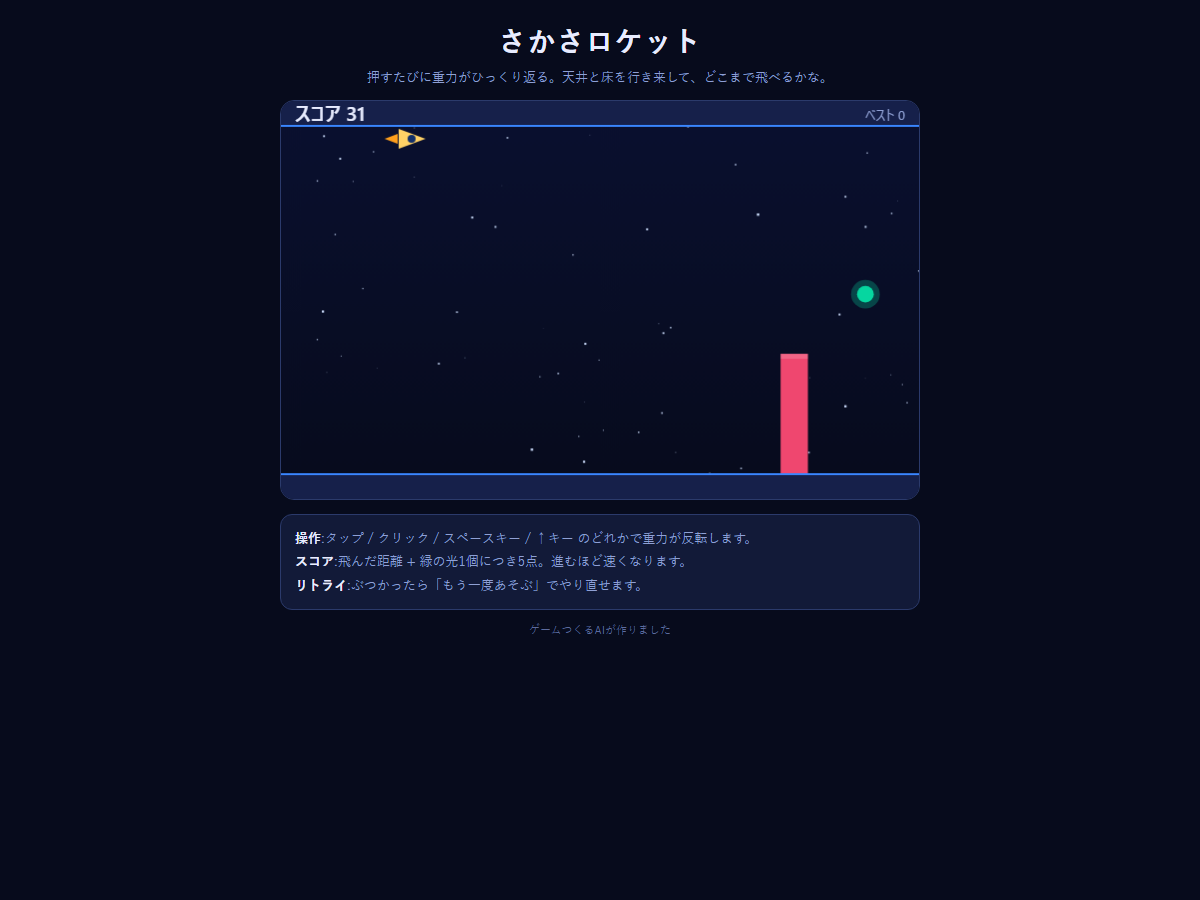
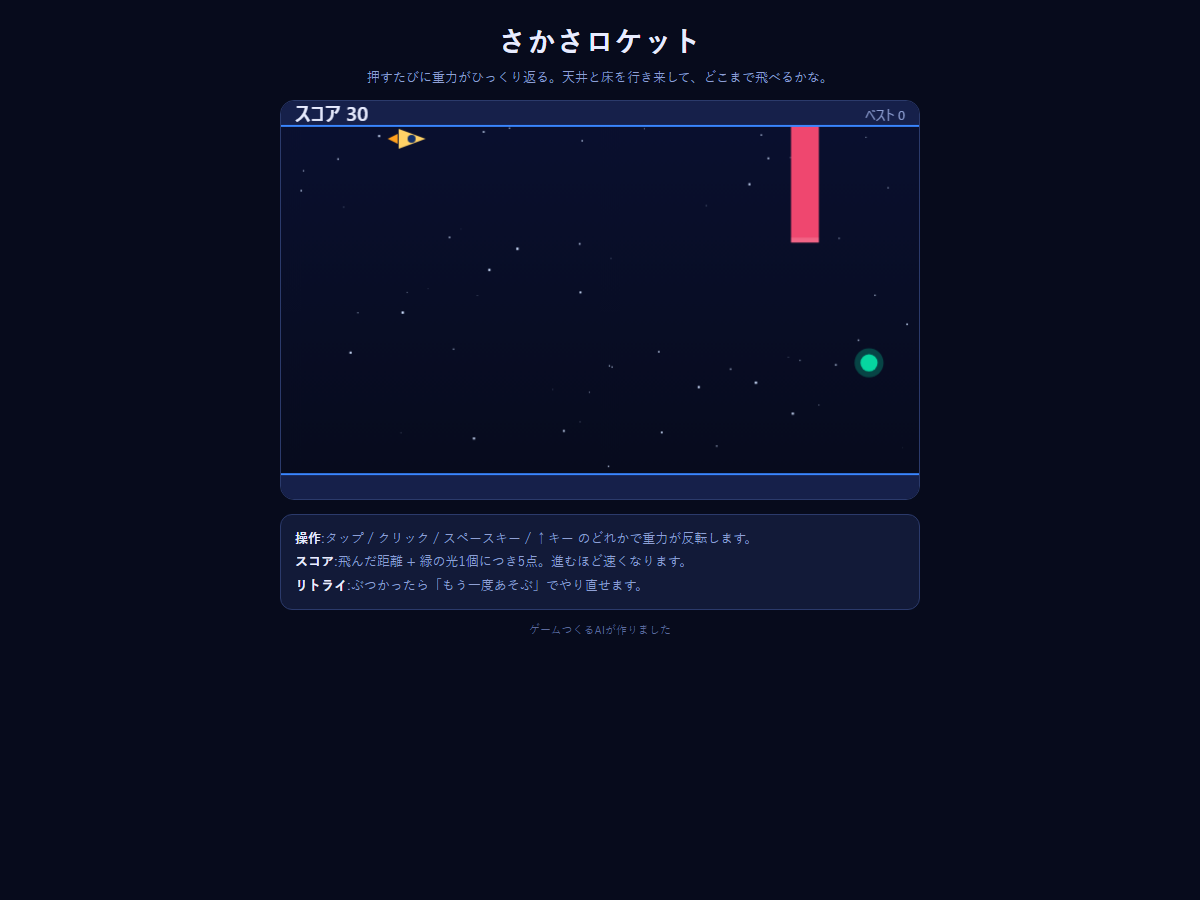
chore: 行数の目安を1000行に引き上げ(テスト上限1200行)

diff --git a/tests/game.spec.ts b/tests/game.spec.ts
@@ -61,8 +61,8 @@ test.describe('今日のゲーム', () => {
       /<meta[^>]+name\s*=\s*["']?viewport/i,
     );
 
-    // 400行が目安。大きく超えたら作り直しの合図
-    expect(lines, `${lines}行あります。400行を目安に作り直してください`).toBeLessThanOrEqual(600);
+    // 1000行が目安。大きく超えたら作り直しの合図
+    expect(lines, `${lines}行あります。1000行を目安に作り直してください`).toBeLessThanOrEqual(1200);
   });
 
   test('画面が表示され、必要な要素がそろっている', async ({ page }) => {

diff --git a/data/learnings.md b/data/learnings.md
@@ -26,8 +26,10 @@
 **ジャンルはバランスよく回す。ただし1本ごとの品質をできるだけ高くする。**
 「いまのAIのすごさを実感してほしい」とのこと。数をこなすより、1本の完成度で驚かせにいく。
 
-400行という目安は変えない(1ファイル完結の読みやすさを保つため)ので、
-行数を増やすのではなく**密度を上げる**方向で品質を出す。具体的には:
+(※ 2026-09-28 追記: このあと目安は400行→**1000行**に引き上げられた。
+ただし下に書いた「密度で品質を出す」考え方は変えない。行数はあくまで結果。)
+
+品質は行数ではなく**密度**で出す。具体的には:
 
 - **効果音をつける**: Web Audio API で波形を合成すれば、外部ファイルなしで音が出せる。
   無音か有音かは体感差が大きいので、費用対効果が最も高い。
@@ -69,7 +71,34 @@
 
 ### ローグライクについての但し書き
 
-400行に収めるのが一番きついジャンル。作るときは要素を絞る
-(8フロア程度 / 敵3種 / アイテム4種 / 装備は無し)。
-「広さ」ではなく「1回の判断の重さ」で面白さを出す。
-それでも収まらないと判断したら、その回だけ行数が増えることを devlog で正直に書く。
+目安が1000行になったので、以前ほど窮屈ではない。それでも要素は絞る
+(8〜10フロア / 敵3〜4種 / アイテム4〜5種)。
+「広さ」ではなく「1回の判断の重さ」で面白さを出す方針は変えない。
+行数に余裕ができたぶんは、階層生成の質と演出に使う。
+
+---
+
+## 2026-09-28 行数の目安を1000行に引き上げた
+
+オーナーの指示:「1000行ぐらいまで上限上げていい。全部。AIのすごさを実感してもらいたいから」
+
+- CLAUDE.md の目安: 400行 → **1000行**
+- テストの強制上限: 600行 → **1200行**(目安の2割増し。ギリギリで落ちて出荷できない事故を防ぐため)
+
+**ただし、行数を使い切ることを目標にしない。**
+1〜3分で終わるゲームに要素は2つも要らない、という前提は変わっていない。
+「さかさロケット」が378行、「ひかりのかけら」が384行で成立したのは、
+芯が1つに絞れていたから。長くしたら面白くなるわけではない。
+
+増やしていいのは、次のような「必要があって増える」ぶん:
+
+- 擬似3Dやレイキャスティングの描画処理
+- ローグライクの階層生成とアイテム処理
+- 効果音の種類、演出、難易度カーブの作り込み
+- チュートリアル的な最初の1面
+
+判断基準はひとつ。**その行数が増えた理由を devlog で1文で説明できるか。**
+説明できないなら、それは膨らんだだけなので削る。
+
+長くなるほどテストで落ちる確率が上がり、出荷できない日が出る。
+そのリスクを負うだけの中身があるか、毎回自問する。

diff --git a/CLAUDE.md b/CLAUDE.md
@@ -47,7 +47,7 @@
 - 1〜3分で1プレイが終わる
 - PC(キーボード)とスマホ(タッチ)の両方で操作できる
 - 画面にタイトル・操作説明・スコア・リトライボタンを表示する
-- 400行以内を目安にする
+- 1000行以内を目安にする(行数を使い切ることを目標にしない。増えた理由を devlog で説明できる範囲で使う)
 - グラフィックは図形・絵文字・Canvas描画で作る
 
 ### 禁止
